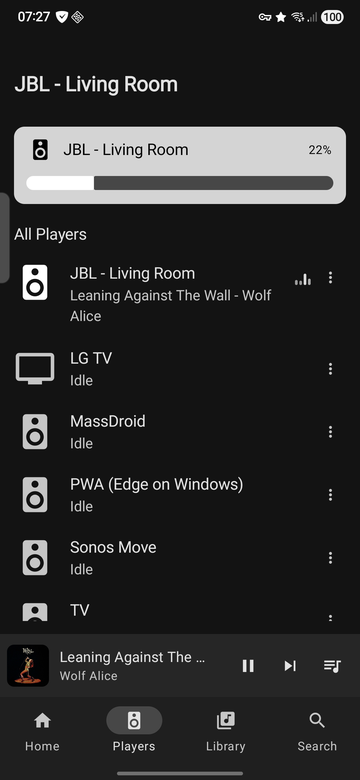
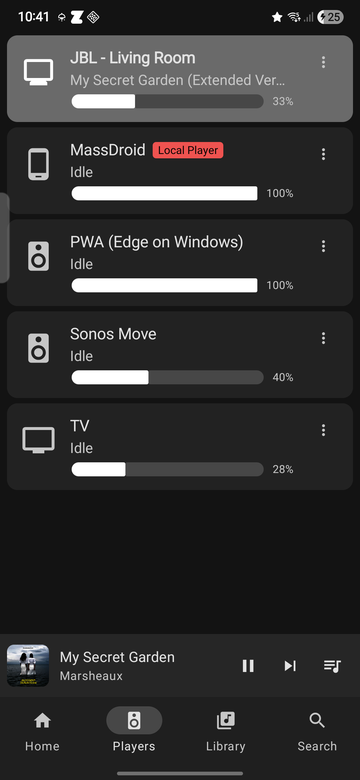
Update README with new features, refresh screenshots

diff --git a/README.md b/README.md
@@ -6,9 +6,10 @@ MassDroid is a full-featured Music Assistant companion app built around music ex
 
 ## What's New ![NEW](https://img.shields.io/badge/-NEW-brightgreen)
 
-- **Lyrics** : Synced and plain text lyrics in the Now Playing screen
-- **Genre Search** : Find artists, albums, and tracks by genre across your enriched library
-- **Similar Artists** : Discover related artists from Last.fm, resolved against your music providers with genre validation
+- **Internet Radio** : Browse and search thousands of radio stations directly from the Library
+- **Inline Volume Controls** : Adjust volume on any player without switching, right from the player list
+- **Library Actions** : Long-press any item for quick actions like play, queue, add to favorites, or view details
+- **App Shortcuts** : Long-press the app icon for quick access to Smart Mix and more
 
 ## Screenshots
 
@@ -27,6 +28,11 @@ MassDroid is a full-featured Music Assistant companion app built around music ex
     <td align="center"><img src="screenshots/artist_detail.png" width="180" /><br/><sub>Artist Detail</sub></td>
     <td align="center"><img src="screenshots/album_detail.png" width="180" /><br/><sub>Album Detail</sub></td>
     <td align="center"><img src="screenshots/connection_status.png" width="180" /><br/><sub>Connection Diagnostics</sub></td>
+  </tr>
+  <tr>
+    <td align="center"><img src="screenshots/radio_library.png" width="180" /><br/><sub>Radio Library</sub></td>
+    <td align="center"><img src="screenshots/radio_search.png" width="180" /><br/><sub>Radio Search</sub></td>
+    <td align="center"><img src="screenshots/lyrics.png" width="180" /><br/><sub>Lyrics</sub></td>
   </tr>
 </table>
 
@@ -54,7 +60,7 @@ All recommendation data stays on-device in a local Room database. Nothing is sen
 ## Features
 
 - **Discover Home** : Dynamic recommendation sections with recently played, top picks, genre radio, and Smart Mix
-- **Library Browsing** : Artists, Albums, Tracks, Playlists with search, sort, and grid/list views. Genre-based search finds artists, albums, and tracks by genre when your library has been enriched with Last.fm tags.
+- **Library Browsing** : Artists, Albums, Tracks, Playlists, and Radio with search, sort, and grid/list views. Genre-based search finds artists, albums, and tracks by genre when your library has been enriched with Last.fm tags.
 - **Artist & Album Detail** : Rich detail views with descriptions, genres, similar artists, and now-playing indicators
 - **Player Controls** : Play, pause, skip, seek, volume, shuffle, repeat across all MA players
 - **Now Playing** : Full-screen player with album art, seek bar, favorite toggle, lyrics, and artist blocking
